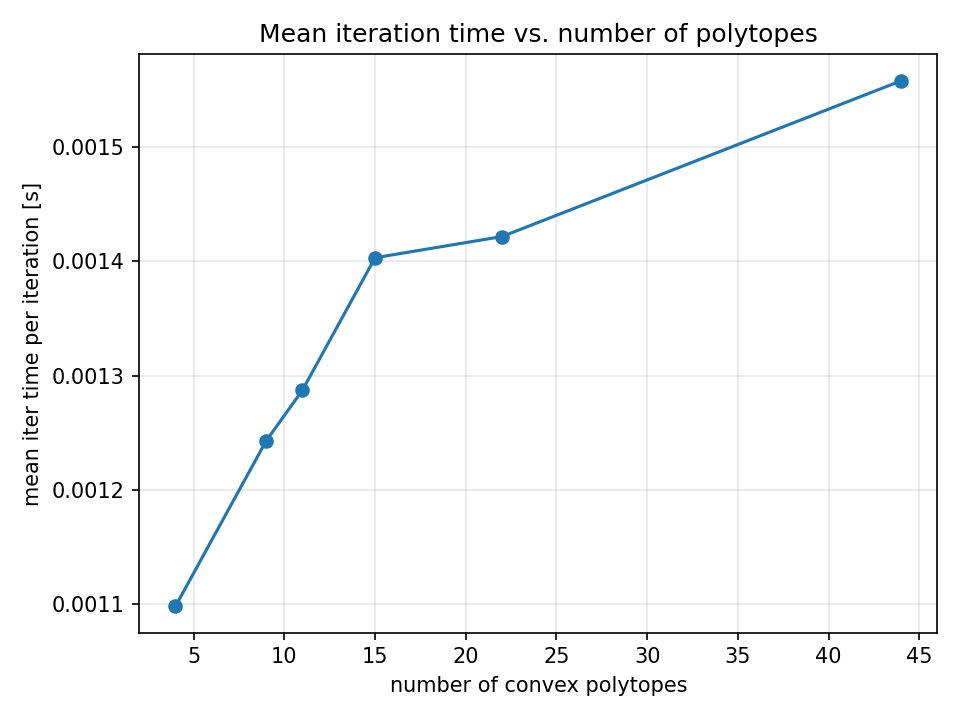
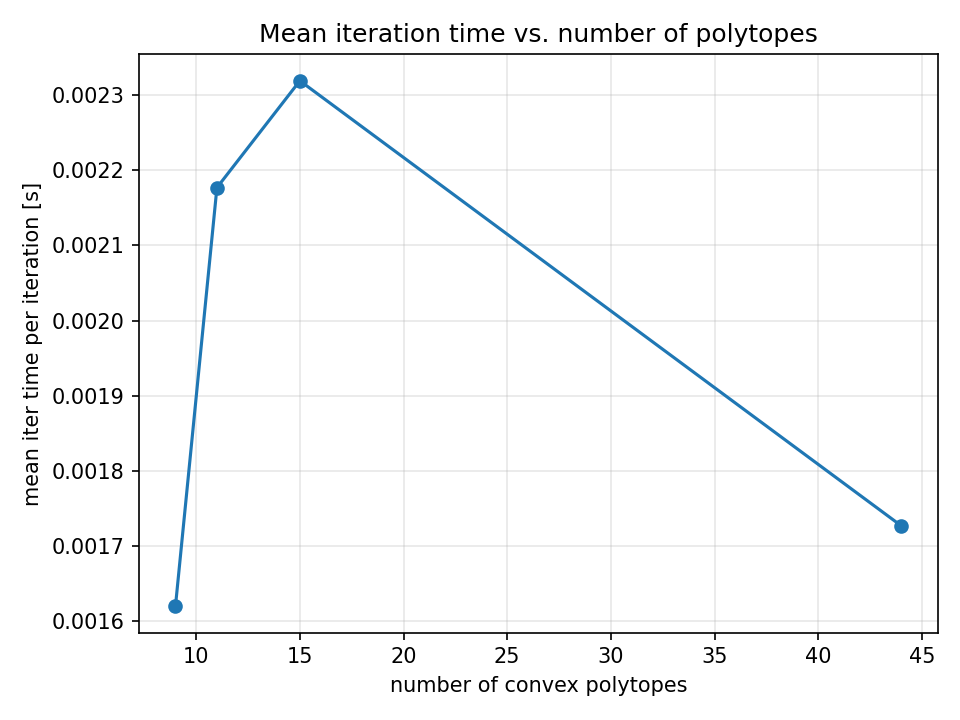
fixed X + u

diff --git a/src_test/execution/runner.py b/src_test/execution/runner.py
@@ -619,7 +619,9 @@ def run_admm_trajectory_optimization(config, DEBUG=False):
         step1_end = time.perf_counter()
         step2_start = time.perf_counter()
         # Projektion pro Segment auf EIN Set (Kontrollpunkte)
-        C_segments = [X[ctrl_per_seg*i : ctrl_per_seg*(i+1), :] for i in range(S)]  # each (ctrl_per_seg,3)
+        X_plus_u = X + u_traj
+
+        C_segments = [X_plus_u[ctrl_per_seg*i : ctrl_per_seg*(i+1), :] for i in range(S)]  # each (ctrl_per_seg,3)
         Z_traj, _ , _ , proj_timings = project_segments_with_coverage(C_segments, A_list, b_list, tol=1e-9, max_as_iters=8, warm_active_seq=True, Ab_prepared=Ab)
         z_traj = Z_traj
         # Trajektorie zum Anschauen sampeln (3D)
@@ -695,6 +697,37 @@ def run_admm_trajectory_optimization(config, DEBUG=False):
         agg["sum_proj_reproj"] += row["proj_reproj_s"]
         agg["sum_proj_total"] += row["proj_total_s"]
         agg["iters"] += 1
+
+        if DEBUG:
+            x_traj = []
+            for i in range(S):
+                dt = segment_times[i+1] - segment_times[i]
+                t_vals = np.linspace(0, dt, m_per_seg)
+                ax_i = coeffs_x[i].value
+                ay_i = coeffs_y[i].value
+                az_i = coeffs_z[i].value
+                xs = [evaluate_polynomial(ax_i, t) for t in t_vals]
+                ys = [evaluate_polynomial(ay_i, t) for t in t_vals]
+                zs = [evaluate_polynomial(az_i, t) for t in t_vals]
+                x_traj.append(np.column_stack((xs, ys, zs))) 
+
+            visualize_voxelgrid_with_path(
+                    vg,
+                    path_xyz=np.vstack(x_traj),          # <-- plot the continuous final path
+                    tube_radius=0.25,
+                    grid_opacity=0.25,
+                    grid_color="blue",
+                    turns_idx=None,
+                    mark_start_end=True,
+                    mark_turns=False,
+                    # overlays
+                    A_list=A_list,
+                    b_list=b_list,
+                    show_decomposition=True,
+                    decomp_color="yellow",
+                    decomp_opacity=0.18,
+                    smooth_shading=True,
+                )
 
         if (r_inf <= eps_pri) and (s_inf <= eps_dual):
             print("Konvergenz erreicht.")

diff --git a/src_test/results/polygons_plotter.py b/src_test/results/polygons_plotter.py
@@ -67,7 +67,7 @@ def aggregate_by_polytopes(df: pd.DataFrame) -> pd.DataFrame:
 
 def main():
     # Ordner mit deinen Summary-CSV-Dateien
-    base_dir = "results/polygons/tunnel4"
+    base_dir = "results/polygons/hallway1"
     out_dir = os.path.join(base_dir, "plots")
     os.makedirs(out_dir, exist_ok=True)
 

diff --git a/src_test/main.py b/src_test/main.py
@@ -1,7 +1,7 @@
 import json
 from execution.runner import run_admm_trajectory_optimization
 
-CONFIG = "tunnel4"
+CONFIG = "hallway1"
 
 with open(f"input/configs/{CONFIG}.json", "r") as f:
     config = json.load(f)
